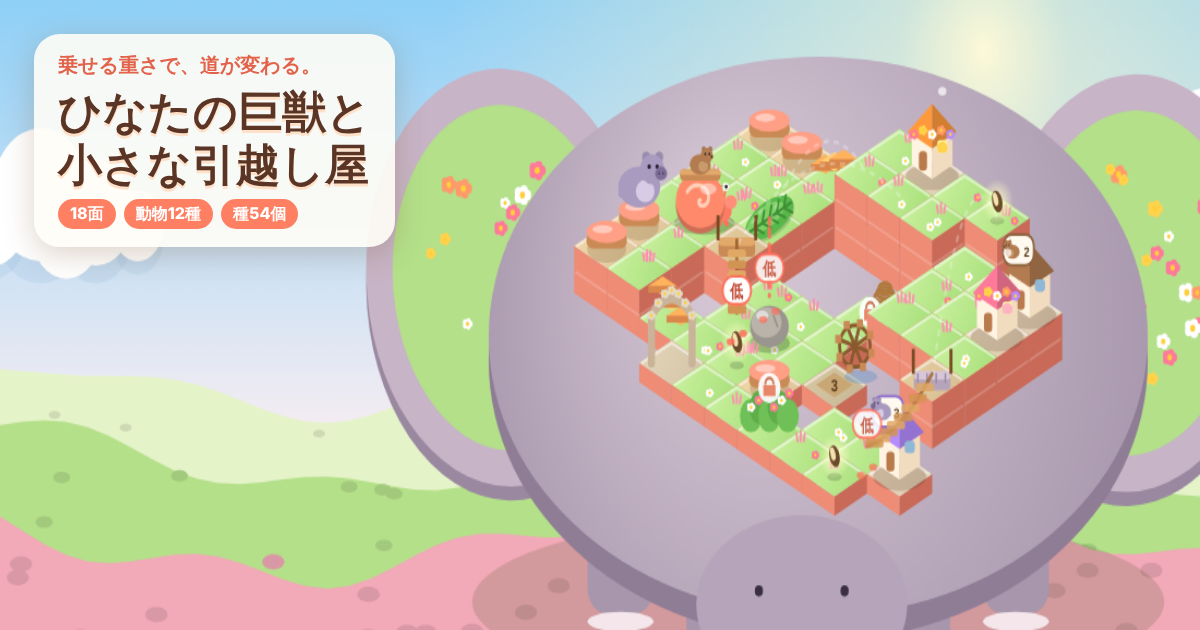
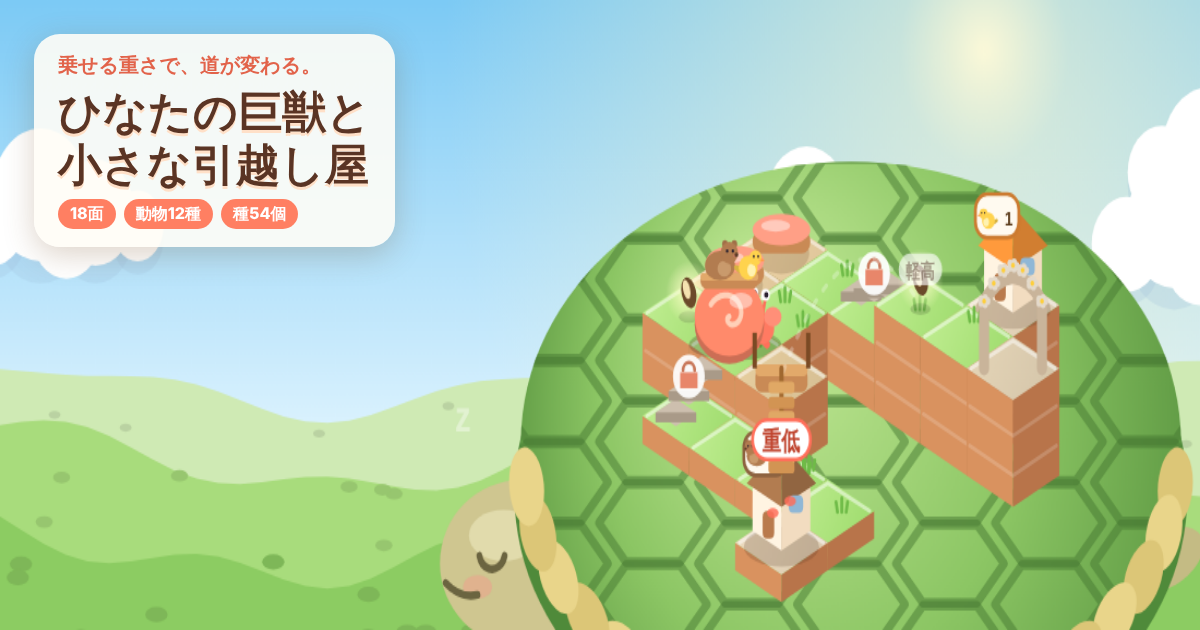
[GAME] ひなたの巨獣と小さな引越し屋：レビュー指摘を反映（初期位置・行き先の札を重/軽の両方表示・浮き文字1つ・全体表示ボタン・共有画像を亀の面に）
Claude-Session: https://claude.ai/code/session_01MokQntuJ7e7oxtNyCQt7XC

diff --git a/site/games/sunlit-giant-movers/game.js b/site/games/sunlit-giant-movers/game.js
@@ -224,7 +224,7 @@ function burst(x, y, n, colors, kind = 'petal', spread = 1) {
     fx.push({ x, y, vx: Math.cos(a) * v, vy: Math.sin(a) * v * 0.6 - 60 * spread, life: 1 + Math.random() * 0.6, t0: now(), c: colors[i % colors.length], kind, r: 3 + Math.random() * 3 });
   }
 }
-function floatText(x, y, text, color = '#c4513a') { labels.push({ x, y, text, color, t0: now() }); }
+function floatText(x, y, text, color = '#c4513a') { labels = [{ x, y, text, color, t0: now() }]; }
 function drawFx(t) {
   const dt = 1 / 60;
   fx = fx.filter((p) => t - p.t0 < p.life);
@@ -245,8 +245,8 @@ function drawFx(t) {
   labels = labels.filter((l) => t - l.t0 < 1.4);
   for (const l of labels) {
     const u = (t - l.t0) / 1.4;
-    ctx.globalAlpha = 1 - u * u; ctx.font = 'bold 18px sans-serif'; ctx.textAlign = 'center';
-    ctx.lineWidth = 5; ctx.strokeStyle = '#fff'; ctx.strokeText(l.text, l.x, l.y - u * 30);
+    ctx.globalAlpha = Math.min(1, (1 - u) * 3); ctx.font = 'bold 18px sans-serif'; ctx.textAlign = 'center';
+    ctx.lineWidth = 6; ctx.strokeStyle = '#fff'; ctx.lineJoin = 'round'; ctx.strokeText(l.text, l.x, l.y - u * 30);
     ctx.fillStyle = l.color; ctx.fillText(l.text, l.x, l.y - u * 30);
   }
   ctx.globalAlpha = 1;
@@ -356,7 +356,7 @@ let prevWheelHint = false;
 function gotSeed(cell) {
   const p = cellWorld(cell); audio.sfx.seed();
   burst(p.x, p.y - 14, 12, ['#fff6b0', '#ffd34d', '#ffffff'], 'dot', 0.7);
-  floatText(p.x, p.y - 44, `種 ${seedCount(state)}/${level.seeds.length}`, '#8a5a00');
+  toast(`種をひろった（${seedCount(state)}/${level.seeds.length}）`);
 }
 function sparkleLock(l) {
   for (const c of level.cells) if (c.lock === l) { const p = cellWorld(c.i, 0.5); burst(p.x, p.y - 10, 16, ['#ffd34d', '#ffffff', '#ff9a6b'], 'dot'); }
@@ -479,6 +479,8 @@ const endPtr = (e) => {
 cv.addEventListener('pointerup', endPtr); cv.addEventListener('pointercancel', endPtr);
 cv.addEventListener('wheel', (e) => { e.preventDefault(); userZoom = Math.max(0.6, Math.min(2.2, userZoom * (e.deltaY < 0 ? 1.1 : 0.9))); }, { passive: false });
 cv.addEventListener('dblclick', () => { userZoom = 1; pan = { x: 0, y: 0 }; });
+$('fitBtn').addEventListener('click', () => { userZoom = 1; pan = { x: 0, y: 0 }; });
+setInterval(() => { $('fitBtn').hidden = Math.abs(userZoom - 1) < 0.02 && !pan.x && !pan.y; }, 300);
 
 // 方向パッド（押し続けると0.18秒ごと。橋・葉を越えたら止まる）
 let holdTimer = 0; let holdBlocked = false;
@@ -674,7 +676,7 @@ function playStory(n, done) {
       const last = i === beasts.length - 1 && n !== 2;
       let bx = last ? w * 0.78 - (t - appear) * speed * 0.4 : w * (narrow ? 0.3 + i * 0.12 : 0.18 + i * 0.22) + walk * speed;
       if (n === 2) bx = w * (narrow ? 0.25 + i * 0.25 : 0.2 + i * 0.28) + walk * speed * 0.6;
-      const by = h * (narrow ? 0.3 + i * 0.16 : 0.5) + Math.sin(walk * 3 + i) * 4 - (n === 0 && i === 0 ? Math.min(1, t / 1.5) * 18 : 0);
+      const by = h * (narrow ? 0.5 + i * 0.09 : 0.56) + Math.sin(walk * 3 + i) * 4 - (n === 0 && i === 0 ? Math.min(1, t / 1.5) * 18 : 0);
       g.save(); g.translate(bx, by); g.scale(sc * 0.55, sc * 0.55);
       drawBeast(g, b, { x0: -150, x1: 150, y0: -90, y1: 60 }, t, settings.calm, {});
       for (let k = 0; k < 4; k++) drawHouse(g, -90 + k * 60, -30 + (k % 2) * 16, KIND_IDS[(k * 3 + i * 4) % 12], true, t, 1.1);
@@ -786,16 +788,12 @@ function setupTitle() {
 function setupOg() {
   document.body.classList.add('og');
   $('title').hidden = true; titleOn = false;
-  loadLevel(17);
-  // 『みんなの引越し日』：小鳥と子ブタはもう新居に。カピバラを背負って、鼻の橋の前へ
+  loadLevel(0);
+  // 『くしゃみ橋』：カピバラと小鳥を背負って満員。橋の行き先が「低」に切り替わった瞬間
   const s = createState(level);
-  const home = (kind) => level.animals.find((a) => a.kind === kind);
-  for (const kind of ['bird', 'piglet']) s.aloc[home(kind).k] = home(kind).home;
-  const capy = home('capybara').k; s.aloc[capy] = -1; s.riders = [capy];
-  s.pos = level.cells.findIndex((c) => c.x === 1 && c.y === 4); s.face = 1;
-  s.open = 1 << level.lockNames.indexOf('bird');
+  s.aloc = [-1, -1]; s.riders = [0, 1]; s.face = 1;
   state = s;
-  userZoom = 0.95; pan = { x: 200, y: -10 };
+  userZoom = 1.05; pan = { x: 230, y: 0 };
   const tag = document.createElement('div'); tag.className = 'og-tag';
   tag.innerHTML = '<p>乗せる重さで、道が変わる。</p><h2>ひなたの巨獣と<br>小さな引越し屋</h2><ul><li>18面</li><li>動物12種</li><li>種54個</li></ul>';
   document.body.appendChild(tag);

diff --git a/site/games/sunlit-giant-movers/render.js b/site/games/sunlit-giant-movers/render.js
@@ -563,13 +563,18 @@ export function drawPadPreview(ctx, level, s, c, t, reduce, focus) {
       ctx.strokeStyle = active ? '#ff6f5a' : '#ffffff'; ctx.lineWidth = active ? 3.5 : 2.5;
       ctx.beginPath(); ctx.moveTo(from.x, from.y); ctx.quadraticCurveTo(mx, my, to.x, to.y); ctx.stroke(); ctx.setLineDash([]);
     }
+    if (!active) {
+      const lbl = (which === 'heavy' ? '重' : '軽') + (tgt.h > c.h ? '高' : tgt.h < c.h ? '低' : '先');
+      ctx.globalAlpha = 0.75; ctx.fillStyle = 'rgba(255,255,255,.85)'; roundRect(ctx, to.x - 15, to.y - 26, 30, 16, 8); ctx.fill();
+      ctx.fillStyle = '#8a7a6a'; ctx.font = 'bold 10px sans-serif'; ctx.textAlign = 'center'; ctx.fillText(lbl, to.x, to.y - 14);
+    }
     // 着地点の足あと
     if (active) {
       const blocked = s.rocks.includes(tgt.i);
       ctx.fillStyle = blocked ? '#d04040' : '#ff6f5a';
       for (let k = 0; k < 2; k++) ell(ctx, to.x - 6 + k * 12, to.y + TH / 2 - 2 + (k ? -3 : 3), 4, 2.6, blocked ? '#d04040' : 'rgba(255,111,90,.85)');
-      const lbl = tgt.h > c.h ? '高' : tgt.h < c.h ? '低' : '先';
-      ctx.fillStyle = '#fff'; roundRect(ctx, to.x - 14, to.y - 30, 28, 20, 10); ctx.fill();
+      const lbl = (heavy ? '重' : '軽') + (tgt.h > c.h ? '高' : tgt.h < c.h ? '低' : '先');
+      ctx.fillStyle = '#fff'; roundRect(ctx, to.x - 20, to.y - 30, 40, 20, 10); ctx.fill();
       ctx.strokeStyle = '#ff6f5a'; ctx.lineWidth = 2; ctx.stroke();
       ctx.fillStyle = '#c0442e'; ctx.font = 'bold 13px sans-serif'; ctx.textAlign = 'center'; ctx.fillText(blocked ? '×' : lbl, to.x, to.y - 15);
     }

diff --git a/site/games/sunlit-giant-movers/style.css b/site/games/sunlit-giant-movers/style.css
@@ -151,7 +151,7 @@ button:focus-visible, input:focus-visible { outline: 3px solid #3b82f6; outline-
 }
 
 /* 共有画像（?og=1） */
-body.og .hud, body.og .controls, body.og .arcade-link, body.og .coach { display: none; }
+body.og .hud, body.og .controls, body.og .arcade-link, body.og .coach, body.og .fit { display: none !important; }
 body.og .stage { margin: 0; }
 body.og .game { max-width: none; }
 .og-tag { position: fixed; left: 34px; top: 34px; z-index: 20; background: rgba(255,253,246,.9); border-radius: 26px; padding: 18px 24px; box-shadow: 0 8px 30px rgba(120,80,40,.25); }
@@ -159,3 +159,10 @@ body.og .game { max-width: none; }
 .og-tag h2 { margin: 6px 0 8px; font-size: 44px; line-height: 1.2; color: #5a3424; text-shadow: 0 3px 0 #ffe0c8; }
 .og-tag ul { display: flex; gap: 8px; list-style: none; margin: 0; padding: 0; }
 .og-tag li { background: #ff7f62; color: #fff; border-radius: 999px; padding: 4px 12px; font-weight: 800; font-size: 16px; }
+
+.fit { position: absolute; right: 8px; bottom: 8px; z-index: 4; font-size: 13px; font-weight: 700; }
+.fit[hidden] { display: none; }
+input[type=range], input[type=checkbox] { accent-color: #ff7f62; }
+.coach { max-width: 96%; line-break: strict; }
+.dex p b { word-break: keep-all; }
+@media (max-width: 420px) { .coach { font-size: 13px; padding: 6px 10px; } .dex p b { font-size: 13px; } }

diff --git a/site/games/sunlit-giant-movers/index.html b/site/games/sunlit-giant-movers/index.html
@@ -40,6 +40,7 @@
       <canvas id="cv" aria-label="巨獣の背中の箱庭。方向ボタンや矢印キーで歩き、動物にぶつかると乗せ、家や台にぶつかると降ろす"></canvas>
       <div id="coach" class="coach" aria-live="polite"></div>
       <div id="toast" class="toast" role="status"></div>
+      <button id="fitBtn" class="pill fit" type="button" hidden>全体を見る</button>
       <div id="pick" class="pick" hidden role="dialog" aria-label="だれを降ろす？">
         <p>だれを降ろす？</p>
         <div id="pickBtns" class="pick-btns"></div>

diff --git a/site/games/sunlit-giant-movers/levels.js b/site/games/sunlit-giant-movers/levels.js
@@ -7,8 +7,8 @@ export const LEVELS = [
     map: [
       '####B#',
       'c.g*.X',
-      'b@####',
-      '*.P###',
+      'b.####',
+      '*@P###',
       '#s.*.#',
       '####C#',
     ],
@@ -62,7 +62,7 @@ export const LEVELS = [
     ],
   },
   {
-    id: 3, name: '昼寝の鼻先', guide: '中継台に降ろすと、体が軽くなる',
+    id: 3, name: '昼寝の鼻先', guide: '停留台に降ろすと、荷重が減る',
     map: [
       '####C##',
       '##X*..B',

diff --git a/site/games/sunlit-giant-movers/solutions.js b/site/games/sunlit-giant-movers/solutions.js
@@ -4,8 +4,8 @@
 export const SOLUTIONS = [
   {
     id: 1,
-    clear: 'ULDLDRRDLLLURRUR',
-    allSeeds: 'ULDDRRDLLLULURRRUR',
+    clear: 'UULDLDRRDLLLURRUR',
+    allSeeds: 'UULDDRRDLLLULURRRUR',
     orders: []
   },
   {
